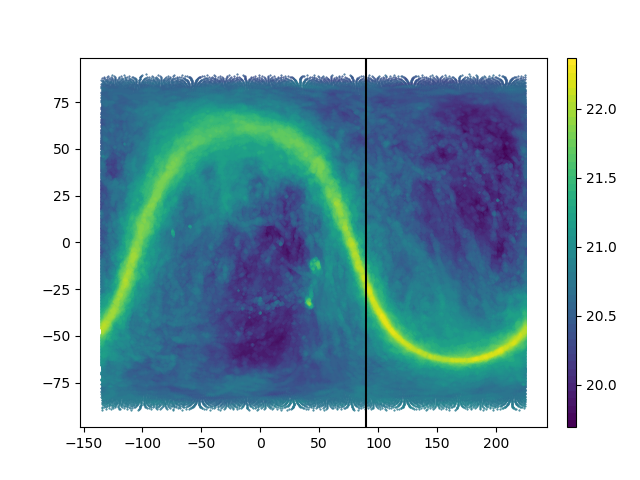
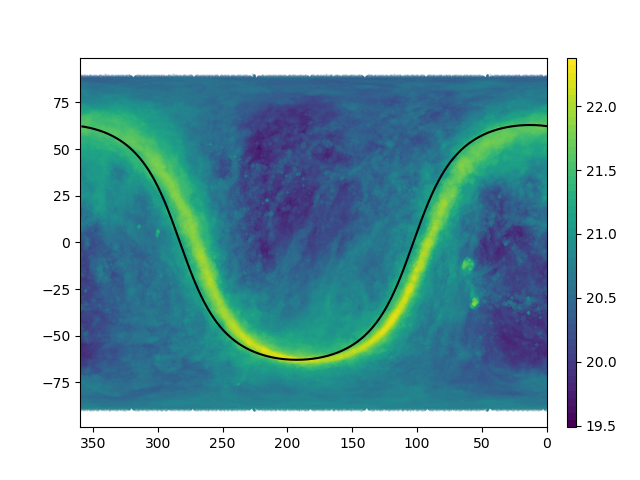
Update.

diff --git a/genfiles/make_mask.py b/genfiles/make_mask.py
@@ -1,6 +1,8 @@
 import os
 import glob
+import ephem
 import fitsio
+import astropy
 import astropy.units        as     u
 import pylab                as     pl 
 import healpy               as     hp
@@ -12,9 +14,10 @@ from   astropy.table        import Table
 from   fast_scatter         import fast_scatter
 from   astropy.coordinates  import SkyCoord
 
+
 def G_to_C(mapi, nside, nest=False):
     """ 
-    Rotates from Galactic to Celestial coordinates.
+    Rotates from Galactic to celestial coordinates.
     """
     thph        = hp.pix2ang(nside, np.arange(hp.nside2npix(nside)), nest=nest)
     
@@ -63,9 +66,9 @@ def get_tycho():
 def get_hone(nside=256, printit=False):
   ''' 
   Reads Lenz et. al. (1610.06175) HI column density. 
-  https://github.com/mehdirezaie/LSSutils/blob/master/LSSutils/extrn/GalacticForegrounds/hpmaps.py#L44-L76
+  Native resolution:  16.2 arcmin. (nside=256, 13.74 arcmin). 
 
-  Native resolution:  16.2 arcmin. (nside=256, 13.74 arcmin).
+  https://github.com/mehdirezaie/LSSutils/blob/master/LSSutils/extrn/GalacticForegrounds/hpmaps.py#L44-L76
   '''
 
   nside_in           = 1024        
@@ -73,6 +76,9 @@ def get_hone(nside=256, printit=False):
   unit               = 'Lenz et. al. HI'
         
   _file              = fitsio.FITS('/global/cscratch1/sd/mjwilson/BGS/SV-ASSIGN/masks/NHI_HPX.fits', lower=True)
+
+  hdr                = fitsio.read_header('/global/cscratch1/sd/mjwilson/BGS/SV-ASSIGN/masks/NHI_HPX.fits')
+  
   nhi                = _file[1].read()['nhi']
   
   ##  Cast to new resolution.
@@ -84,6 +90,9 @@ def get_hone(nside=256, printit=False):
     print(np.sort(nhi))
   
   hpra, hpdec, eqmap = G_to_C(nhi, nside)  
+
+  ##  https://en.wikipedia.org/wiki/International_Celestial_Reference_System
+  hpra[hpra < 0.]   += 360.
   
   return  hpra, hpdec, np.log10(nhi)
   
@@ -110,34 +119,37 @@ if __name__ == '__main__':
   tycho.write('/global/cscratch1/sd/mjwilson/BGS/SV-ASSIGN/masks/tycho_stellar_mask.fits')
   '''
 
-  hpra, hpdec, loghi  = get_hone(256)
-  hpra               += 45
+  hpra, hpdec, loghi  = get_hone(1024)
   
   print(hpra.min(), hpra.max())
   
   ##  Wrap randoms                                                                                                                                                                                                             
-  ##  hpra[hpra > 300.]  -= 360.
-  ##  hpra               += 60.
+  hpra[hpra > 300.]  -= 360.
+  hpra               += 60.
   
   vmin                = loghi.min() ##  np.percentile(loghi, 0.001)
   vmax                = loghi.max() ##  np.percentile(loghi, 0.999)
   
   fig, ax             = plt.subplots(nrows=1, ncols=1)
 
-  ##  plt.scatter(hpra, hpdec, loghi, vmin=vmin, vmax=vmax)
-  
-  fast_scatter(ax, hpra, hpdec, loghi, vmin, vmax, 50, markersize=1., cmap='viridis', printit=False)
+  ##
+  fast_scatter(ax, hpra, hpdec, loghi, vmin, vmax, 50, markersize=1., cmap='viridis', printit=False, alpha=0.25)
 
-  ##  ax.set_xlim(360., 0.)
-
-  ls                  = np.arange(0., 360., 1.)
-  gc                  = SkyCoord(l=ls * u.degree, b=np.zeros_like(ls) * u.degree, frame='galactic')
-
-  exit(1)
+  ##
+  ls                  = np.arange(0.1, 359.5, 1.)
+  bs                  = np.zeros_like(ls)
   
-  print(gc.ra.deg)
+  gc                  = SkyCoord(l=ls*u.degree, b=bs*u.degree, frame='galactic', equinox='J2000')
+  gc                  = gc.transform_to('icrs') 
+
+  ind                 = np.argsort(gc.ra.deg)
+
+  ra                  = gc.ra.deg[ind]
+  dec                 =	gc.dec.deg[ind]
   
-  ax.axvline(90., c='k')
+  ax.plot(ra, dec, 'k-')
+
+  ax.set_xlim(360., 0.)
   
   pl.savefig('hone.png')
   

diff --git a/genfiles/fast_scatter.py b/genfiles/fast_scatter.py
@@ -5,7 +5,7 @@ import matplotlib.pyplot as plt
 from   mpl_toolkits.axes_grid1 import   make_axes_locatable
 
 
-def fast_scatter(ax, xs, ys, values, mmin, mmax, N, markersize=0.1, cmap='autumn_r', printit=False):
+def fast_scatter(ax, xs, ys, values, mmin, mmax, N, markersize=0.1, cmap='autumn_r', printit=False, alpha=1.0):
   ##  Digitzie.
   step         = (mmax - mmin) / N
   
@@ -40,7 +40,7 @@ def fast_scatter(ax, xs, ys, values, mmin, mmax, N, markersize=0.1, cmap='autumn
     if printit:
       print('Plotting level {} of {} - {} targets at {}.'.format(i, len(levels), np.count_nonzero(isin), level))
 
-    ax.plot(xs[isin], ys[isin], markersize=markersize, c=colors[indexs[i]], lw=0, marker='.')
+    ax.plot(xs[isin], ys[isin], markersize=markersize, c=colors[indexs[i]], lw=0, marker='.', alpha=alpha)
 
   divider      = make_axes_locatable(ax)
 
